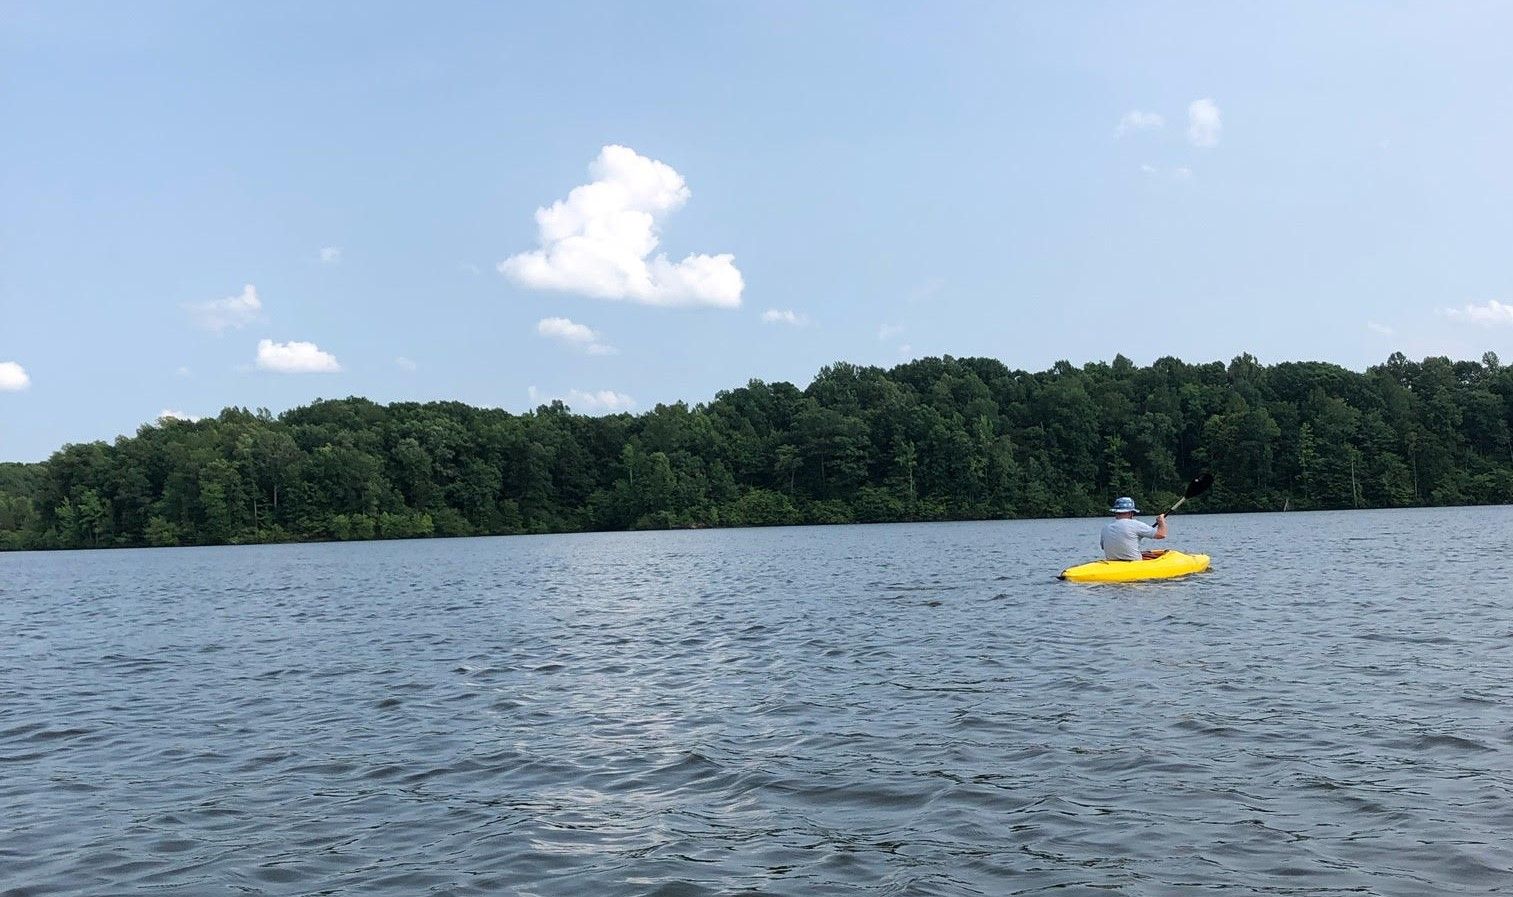
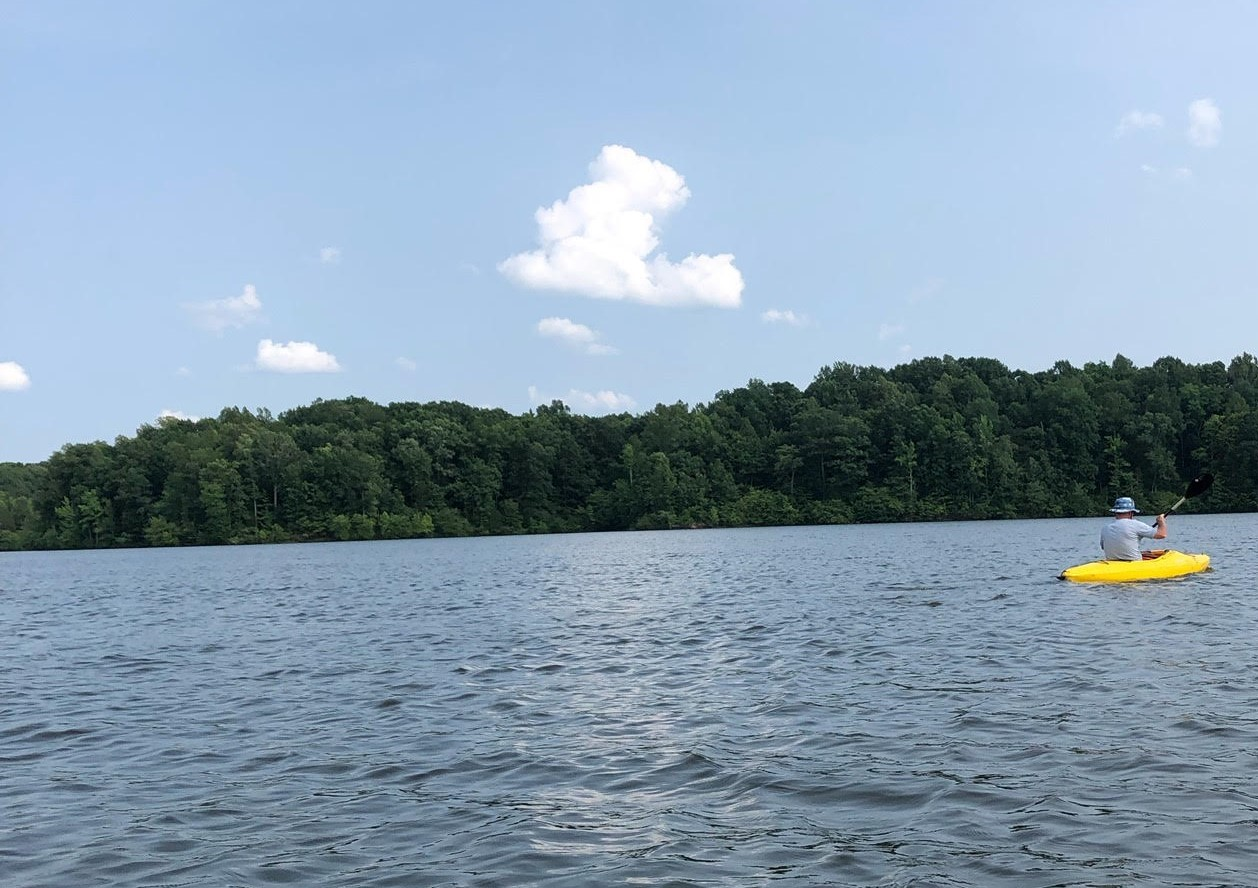
update images and formatting

diff --git a/style.css b/style.css
@@ -2,7 +2,7 @@
 			body {
   				margin: 0px;
 				margin-top: 50px;
-  				font-family: Arial, Helvetica, sans-serif;
+  				font-family: Arial, Trebuchet MS, sans-serif;
 			}
 
 			html { 
@@ -61,7 +61,8 @@
 				overflow: hidden;
 			}
 
-			.text { text-align: left;
+			.text { 
+				text-align: left;
 				width: 50%;
 				height: 200px;
 				padding-left: 16px;
@@ -90,7 +91,7 @@
 				background-image: url("myPicture.jpg");
 				height: 70vw;	
 				background-attachment: fixed;
-				background-position: center;
+				background-position: center center;
 				background-repeat: no-repeat;
 				background-size: cover;
 				position: relative;
@@ -99,9 +100,10 @@
 			.parallax_james_madison {
 				background-image: url("isat.jpg");
 				height: 100%;
+				width: 100%;
 				filter: blur(3px);
 				background-attachment: fixed;
-				background-position: center;
+				background-position: center center;
 				background-repeat: no-repeat;
 				background-size: cover;
 			}
@@ -110,7 +112,7 @@
 				background-image: url("kayaking.jpg");
 				height: 70vw;
 				background-attachment: fixed;
-				background-position: center;
+				background-position: right center;
 				background-repeat: no-repeat;
 				background-size: cover;
 				position: relative;
@@ -121,15 +123,14 @@
   				background-color: rgba(0,0,0, 0.4); /* Black w/opacity/see-through */
   				color: white;
   				font-weight: bold;
-				font-size: 1.6vw;
   				border: 3px solid #f1f1f1;
   				position: absolute;
-  				top: 50%;
-  				left: 50%;
+  				top: 50%;	
+				font-size: 1.9vw;
+				left: 50%;
   				transform: translate(-50%, -50%);
   				z-index: 1;
   				width: 80%;
-  				padding: 0px;
   				text-align: center;
 			}
 
@@ -147,7 +148,6 @@
   				transform: translate(-50%, -50%);
   				z-index: 0;
   				width: 30%;
-				height: 70;
   				padding: 0px;
   				text-align: center;
 				

diff --git a/projects.html b/projects.html
@@ -13,17 +13,16 @@
 
 		<style>
 			p.proj_desc {
-				
+				line-height: 1.5;	
 				margin-bottom: 20px;
 				margin-left: 20px;
 				margin-right: 20px;
 			}
 
 			b.par_header {
-				margin-bottom: 20px;
 				margin-right: 20px;
-				font-size: 35px;
-
+				font-size: 30px;
+				line-height: 20px;
 			}
 
 			a.proj_link {
@@ -97,7 +96,7 @@
 			<div class= "fixed">
 				<p class = "proj_desc">
 					<b class= "par_header"> Pirex </b>
-					
+					Pirex was completed as a semester long project in Software Engineering, CS 345, during the fall of 2017 at James Madison University. The program itself is a ranking information retrieval system for searching small collections of full-text documents. More specifically, the system allows the storing of books from the website www.gutenburg.org and allows the retrieval and ranking of specific passages based on search criteria specified by the user. Our group was responsible for creating the GUI as well as the backend, implementing structures such as an inverted index	
 				</p>
 			</div>
 			<div class= "grow">

diff --git a/index.html b/index.html
@@ -39,7 +39,7 @@
 		<div class = "parallax_my_picture">
 			
 			<div class = "bio">
-				<p>I I I acquired my Bachelor of Science degree in Computer Science from James Madison University in the Spring of 2019, along with a minor in mathematics. With experience in multimedia software development, parallel programming and software engineering, I aspire to be a software designer. As a former student athlete and teaching assistance, I also aspire to work with others in helping them achieve their goals. </p>
+				<p>I acquired my Bachelor of Science degree in Computer Science from James Madison University in the Spring of 2019, along with a minor in mathematics. With experience in multimedia software development, parallel programming and software engineering, I aspire to be a software designer. As a former student athlete and teaching assistance, I also aspire to work with others in helping them achieve their goals. </p>
 			</div>
 			
 		</div>
